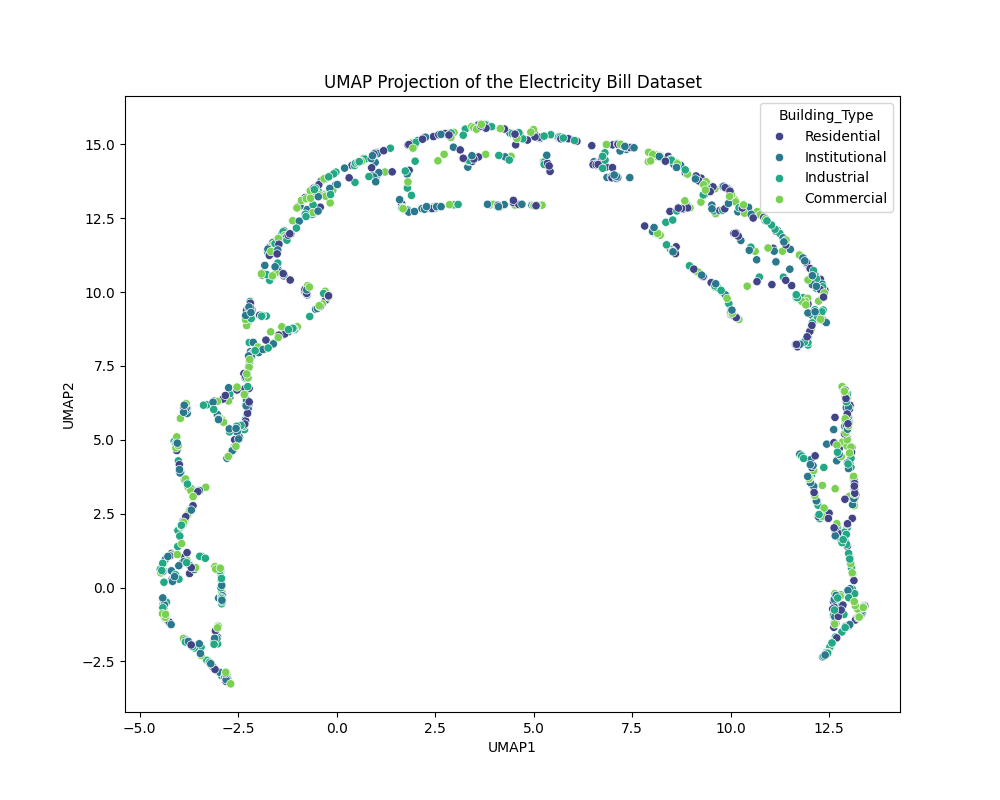
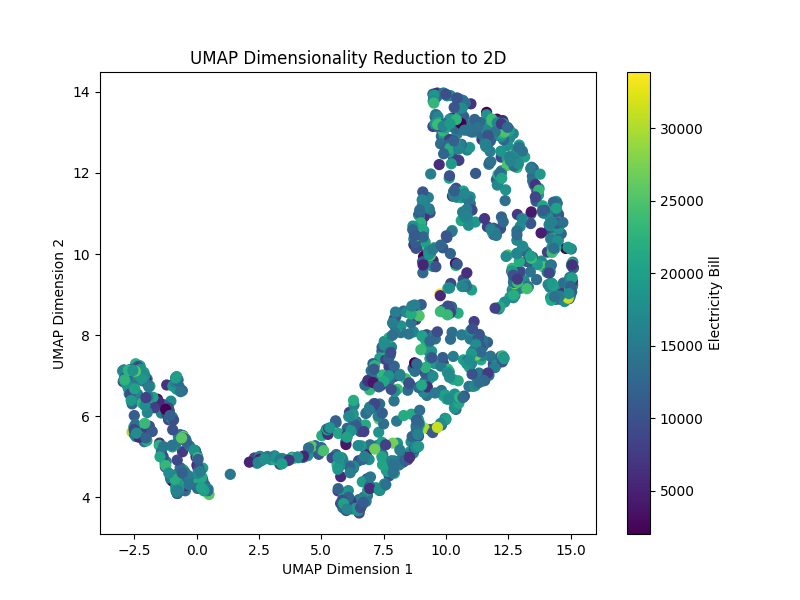
B

diff --git a/A1/Q3/B.py b/A1/Q3/B.py
@@ -1,0 +1,34 @@
+import pandas as pd
+from sklearn.preprocessing import LabelEncoder
+from umap import UMAP
+import matplotlib.pyplot as plt
+import umap
+import os
+
+umap_dir = 'UMAP/'
+os.makedirs(umap_dir, exist_ok=True)
+
+# Load the dataset
+data = pd.read_csv('Electricity Bill.csv')
+
+# Label Encoding categorical features
+label_encoder = LabelEncoder()
+categorical_columns = ['Building_Type', 'Building_Status', 'Maintenance_Priority', 'Green_Certified']
+for col in categorical_columns:
+    data[col] = label_encoder.fit_transform(data[col])
+
+# Prepare features for UMAP (excluding target 'Electricity_Bill')
+features = data.drop(columns=['Electricity_Bill'])
+
+# Apply UMAP to reduce to 2 dimensions
+umap_model = UMAP(n_components=2, random_state=42)
+reduced_data = umap_model.fit_transform(features)
+
+plt.figure(figsize=(8, 6))
+plt.scatter(reduced_data[:, 0], reduced_data[:, 1], c=data['Electricity_Bill'], cmap='viridis', s=50)
+plt.colorbar(label='Electricity Bill')
+plt.title('UMAP Dimensionality Reduction to 2D')
+plt.xlabel('UMAP Dimension 1')
+plt.ylabel('UMAP Dimension 2')
+plt.savefig(os.path.join(umap_dir, "umap_projection.png"))
+plt.show()
